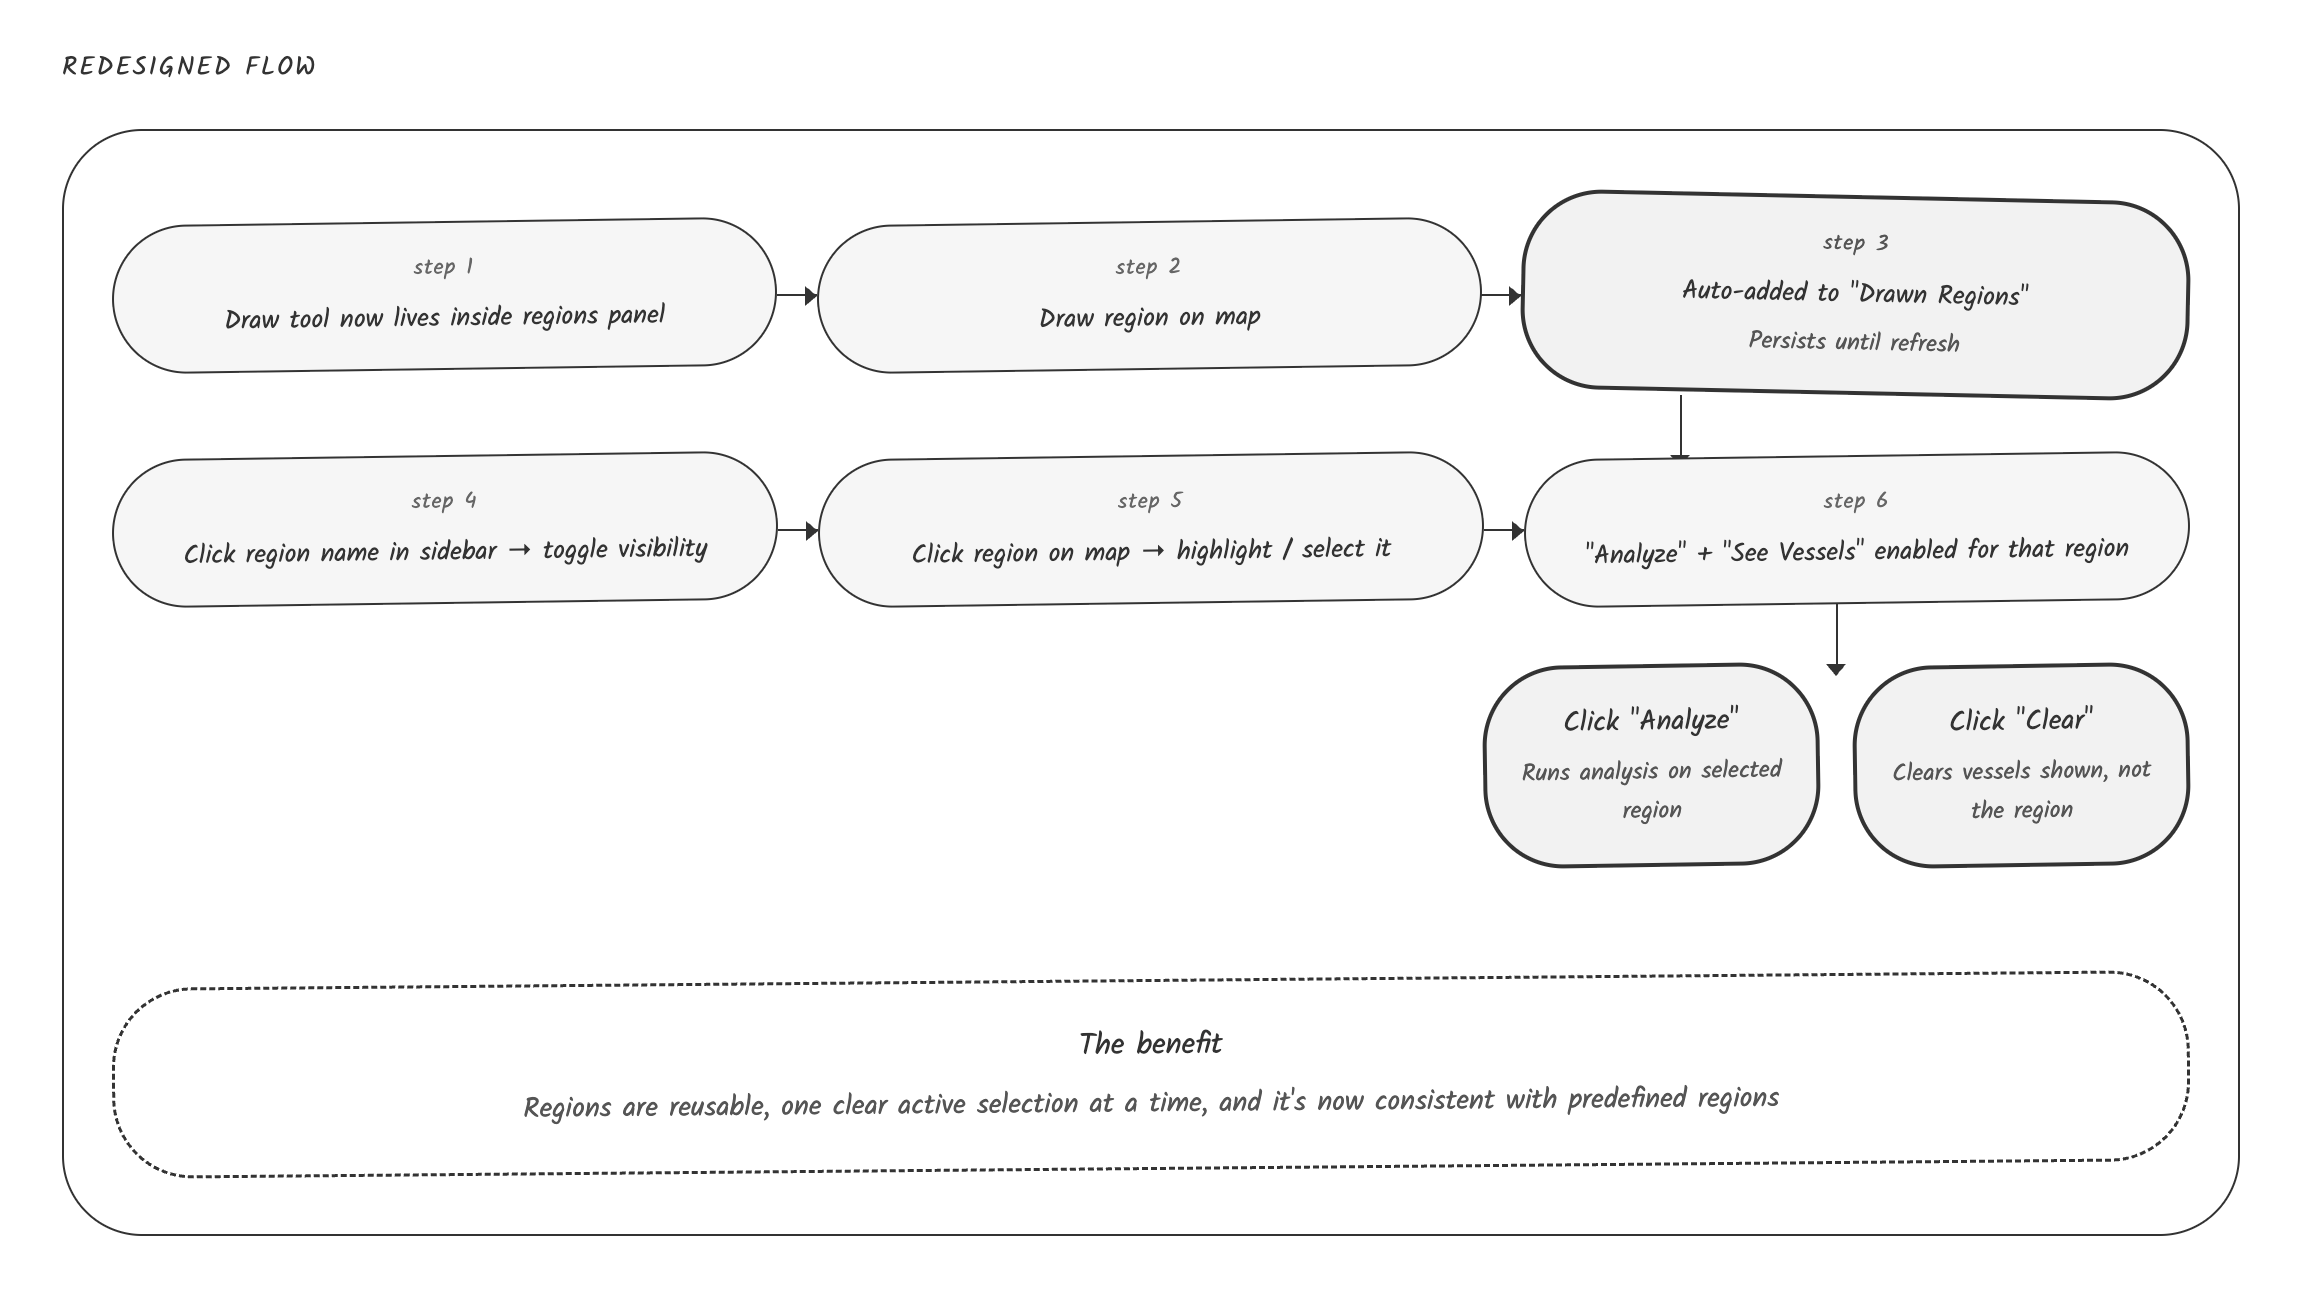
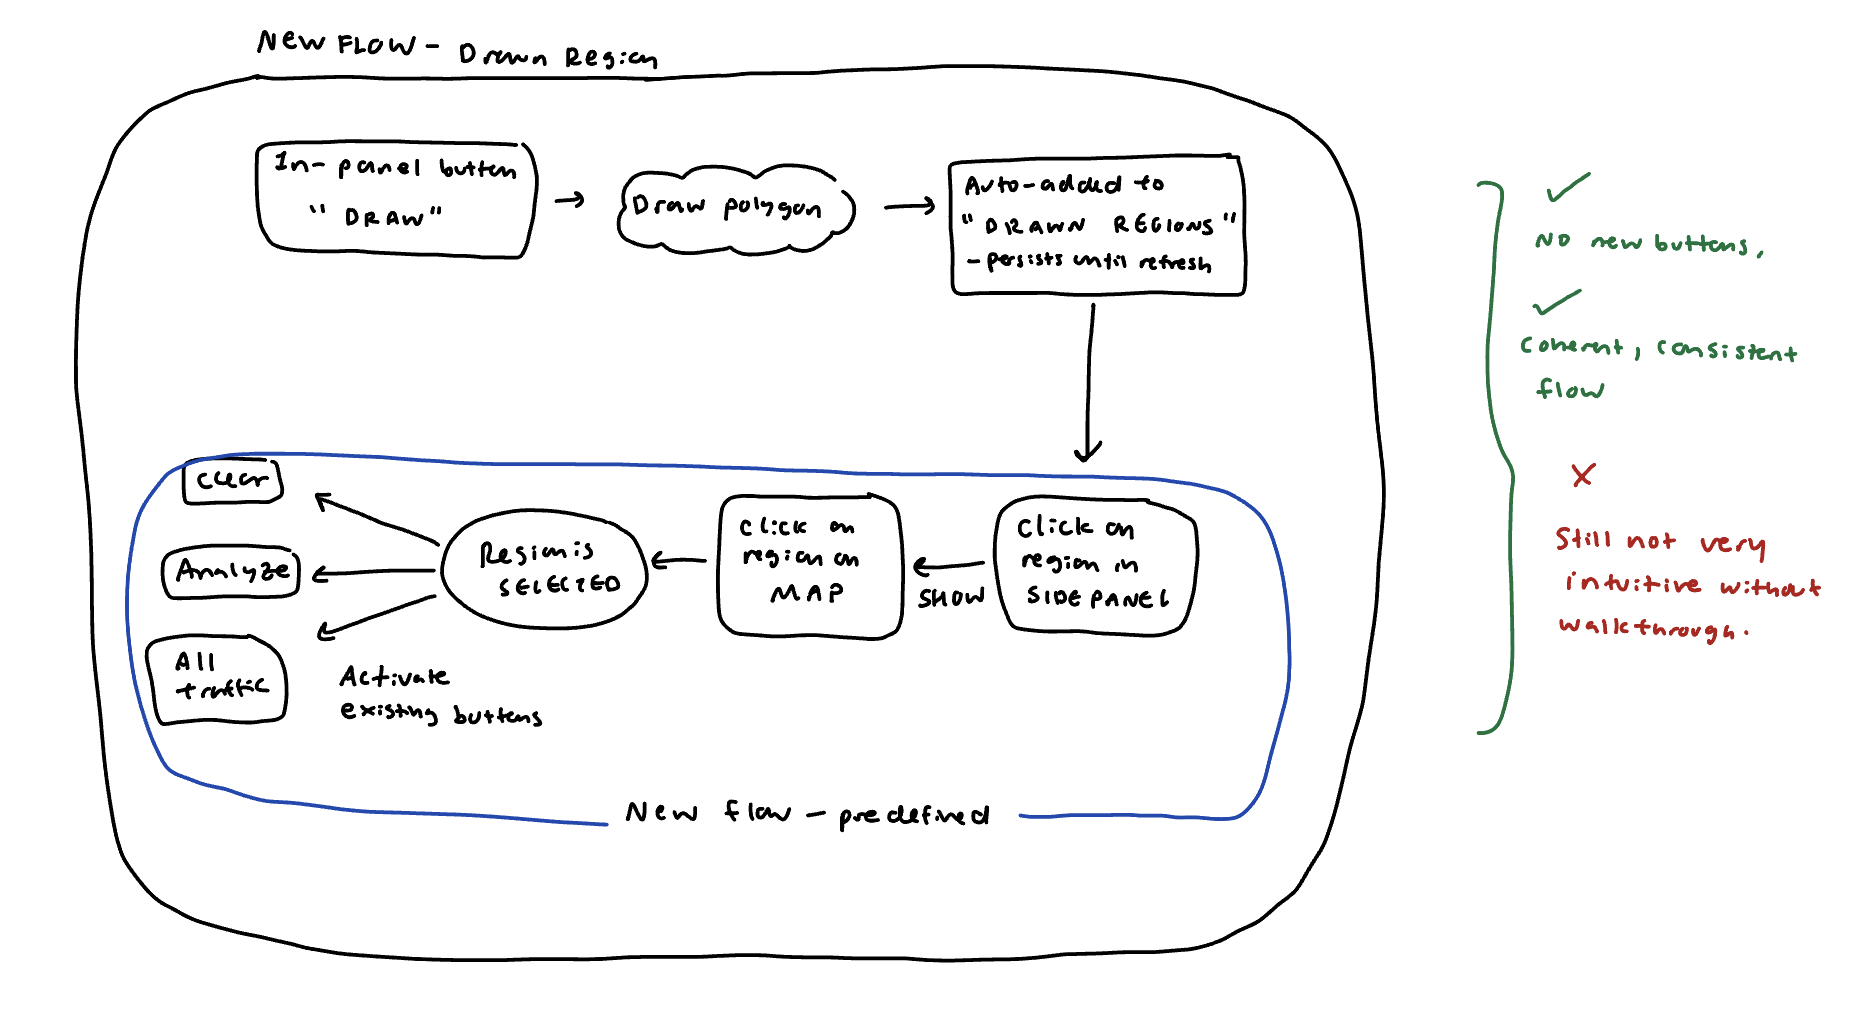
update flow images in marinepact to be hand drawn ones

diff --git a/app/work/marinepact/page.tsx b/app/work/marinepact/page.tsx
@@ -224,7 +224,7 @@ export default function Marinepact() {
               <img
                 src="/demos/flow1.png"
                 alt="before: draw region flow"
-                className="w-full object-contain shadow-sm dark:brightness-75"
+                className="w-full object-contain dark:brightness-75"
               />
               <video
                 src="/demos/uxfix.mp4"
@@ -286,7 +286,7 @@ export default function Marinepact() {
               <img
                 src="/demos/flow2.png"
                 alt="after: draw region flow"
-                className="w-full object-contain shadow-sm dark:brightness-75"
+                className="w-full object-contain dark:brightness-75"
               />
               <video
                 src="/demos/drawupdated.mp4"
